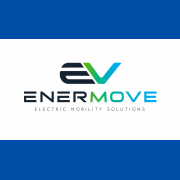
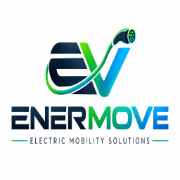
feat: Actualizacion de logo1

diff --git a/src/utils/seo.js b/src/utils/seo.js
@@ -58,7 +58,7 @@ export const organizationSchema = {
   '@type': 'Organization',
   name: 'ENERMOVE',
   url: siteUrl,
-  logo: `${siteUrl}/logo.svg`,
+  logo: `${siteUrl}/logo.webp`,
   description: seoDefaults.description,
   areaServed: { '@type': 'Country', name: 'Colombia' },
   sameAs: [
@@ -94,7 +94,7 @@ export const localBusinessSchema = {
   '@type': 'LocalBusiness',
   name: 'ENERMOVE',
   url: siteUrl,
-  logo: `${siteUrl}/logo.svg`,
+  logo: `${siteUrl}/logo.webp`,
   description: seoDefaults.description,
   areaServed: { '@type': 'Country', name: 'Colombia' },
   address: {
@@ -182,7 +182,7 @@ export const articleSchema = (post) => ({
   datePublished: post.date,
   dateModified: post.date,
   author: { '@type': 'Organization', name: 'ENERMOVE' },
-  publisher: { '@type': 'Organization', name: 'ENERMOVE', logo: { '@type': 'ImageObject', url: `${siteUrl}/logo.svg` } },
+  publisher: { '@type': 'Organization', name: 'ENERMOVE', logo: { '@type': 'ImageObject', url: `${siteUrl}/logo.webp` } },
   mainEntityOfPage: { '@type': 'WebPage', '@id': post.url },
 });
 

diff --git a/src/components/footer/Footer.jsx b/src/components/footer/Footer.jsx
@@ -2,7 +2,7 @@ import { ArrowUpRight, Facebook, Instagram, Linkedin, Mail, MapPin, Phone } from
 import { Link } from 'react-router-dom';
 import WhatsAppIcon from '../icons/WhatsAppIcon';
 import { contactConfig, getWhatsAppUrl } from '../../config/contact';
-import logo from '../../assets/images/logo.webp';
+const logo = '/logo.webp';
 
 const navigation = [
   { label: 'Inicio', to: '/' },

diff --git a/src/components/navbar/Navbar.jsx b/src/components/navbar/Navbar.jsx
@@ -2,7 +2,7 @@ import { Menu, X, ArrowRight } from 'lucide-react';
 import { useEffect, useState } from 'react';
 import { Link, NavLink, useLocation } from 'react-router-dom';
 import { motion, useScroll, useTransform } from 'framer-motion';
-import logo from '../../assets/images/logo.webp';
+const logo = '/logo.webp';
 
 const links = [
   { label: 'Inicio', to: '/' },
